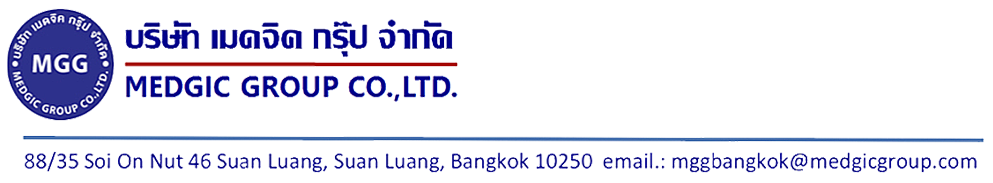
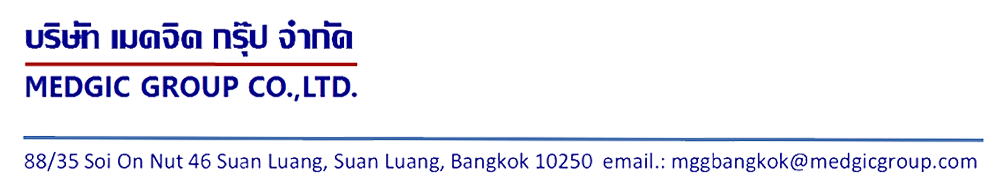
9

Changed region(s): [[0.0, 0.0546, 0.4683, 0.6557], [0.3434, 0.3279, 0.4683, 0.3825], [0.2185, 0.3279, 0.3122, 0.3825]]

diff --git a/index.html b/index.html
@@ -113,8 +113,9 @@
 						<!-- Logo
 						============================================= -->
 				  <div id="logo"class="col-lg-6">
-					<p><a href="Canvas/Package-HTML/HTML/index.html" class="retina-logo"></a><img src="MGG-website/Photo/header.png" alt=""/></p>
-				  </div><!-- #logo end -->
+					<p><a href="Canvas/Package-HTML/HTML/index.html" class="retina-logo"></a><img src="MGG-website/mgg.png" alt=""/></p> <p><img src="MGG-website/Photo/header.png" alt=""/></p>
+				  </div>						
+					<!-- #logo end -->
 
 						<div id="primary-menu-trigger">
 							<svg class="svg-trigger" viewBox="0 0 100 100"><path d="m 30,33 h 40 c 3.722839,0 7.5,3.126468 7.5,8.578427 0,5.451959 -2.727029,8.421573 -7.5,8.421573 h -20"></path><path d="m 30,50 h 40"></path><path d="m 70,67 h -40 c 0,0 -7.5,-0.802118 -7.5,-8.365747 0,-7.563629 7.5,-8.634253 7.5,-8.634253 h 20"></path></svg>
@@ -195,7 +196,7 @@
 							  <div class="heading-block border-bottom-0 bottommargin-sm">
 								  <h3 class="cookie-font text-capitalize color">What Our Product is About</h3>
 								  <h1 class="cookie-font text-capitalize color">&nbsp;</h1>
-									<p>MGG Bangkok is a company that established to improve your health life,because every touch has a meaning to us. Since a century ago human sanitary have been vastly develeping. It has been using to help protect you from various kind of bacteria and danger. From medical to food and manufacturing of many product in developing these world. It is cleary the important part to protect our life.</p>
+									<p>Medgic Group is a company that established to improve your health life,because every touch has a meaning to us. Since a century ago human sanitary have been vastly develeping. It has been using to help protect you from various kind of bacteria and danger. From medical to food and manufacturing of many product in developing these world. It is cleary the important part to protect our life.</p>
 							  </div>
 							</div>
 						<div class="col-lg-6">
@@ -280,7 +281,7 @@
 								    <div class="col-lg-6 service-wrap">
 									  <div class="service-header">
 												<div class="fbox-content">
-												 <h3>Nitrile Glove</h3> 
+												 <h3>MGG Glove</h3> 
 													<a href="#"></a>
 										  </div>
 										<div class="col-lg-6">
@@ -304,10 +305,10 @@
 								      8. Applications: Widely used in food processing, examination, hair, dyeing, printing, machinery, cleaning, family hygienic protection etc.</p>
 									</div>
 
-										<div class="col-lg-6 service-wrap">
+						<div class="col-lg-6 service-wrap">
 										  <div class="service-header">
 										    <div class="fbox-content">
-											   <h3>Free Powder Latex Glove</h3>
+											   <h3>MGG Free Powder Latex Glove</h3>
 										    </div>
 										    <div class="col-lg-6">
 										     						<div class="center"><img class="img-responsive" src="MGG-website/2.png" alt="Image"></div>
@@ -330,6 +331,28 @@
 											  8. Applications: Widely used in food processing, examination, hair, dyeing, printing, machinery, cleaning, family<br>
 										    hygienic protection etc. </p>
 										</div>
+										<div class="col-lg-6 service-wrap">
+										  <div class="service-header">
+										    <div class="fbox-content">
+										      <h3>TGL NITIRE Glove</h3>
+										      <a href="#"></a> </div>
+										    <div class="col-lg-6">
+										      <div class="center"><img class="img-responsive" src="MGG-website/9.png" alt="Image"></div>
+									        </div>
+										    <div class="service-price color"></div>
+									      </div>
+										  <p class="fbox-content">1. Material: 100% Nitrile<br>
+										    2.Type: Powder Free, non-sterile.<br>
+										    3.Size: S / M / L / XL are available.<br>
+										    4.S(4.5g),M(5.0g),L(5.5g)<br>
+										    5.Colour: Blue<br>
+										    6.Package: 100PCS/Box, 10 Boxes/Carton.<br>
+										    1*20FCL 1600 CTNS.<br>
+										    1*40 FCL 2900 CTNS.<br>
+										    1*40HQ 4000 CTNS.<br>
+										    7.Storage: The gloves shall maintain their properties when stored in a dry condition at temperature not higher than 30 degree.<br>
+										    8. Applications: Widely used in food processing, examination, hair, dyeing, printing, machinery, cleaning, family hygienic protection etc.</p>
+					    </div>
 
 								    <div class="w-100"></div>
 				  </div>
